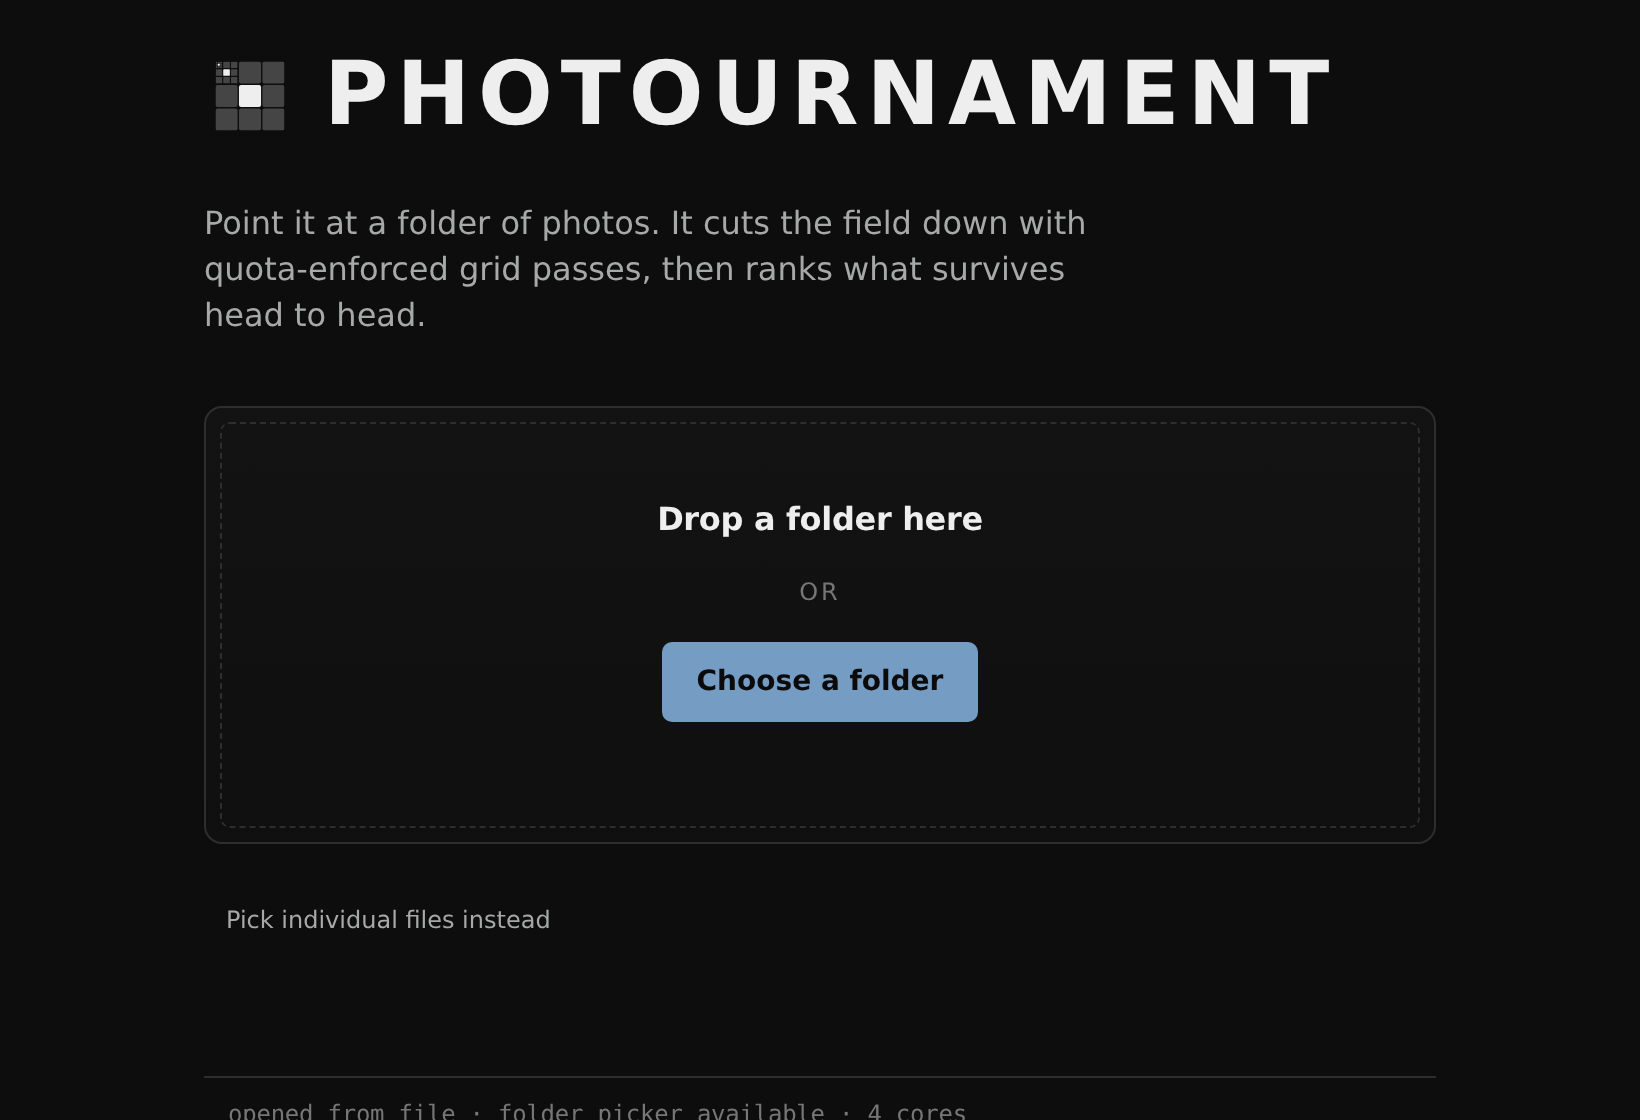
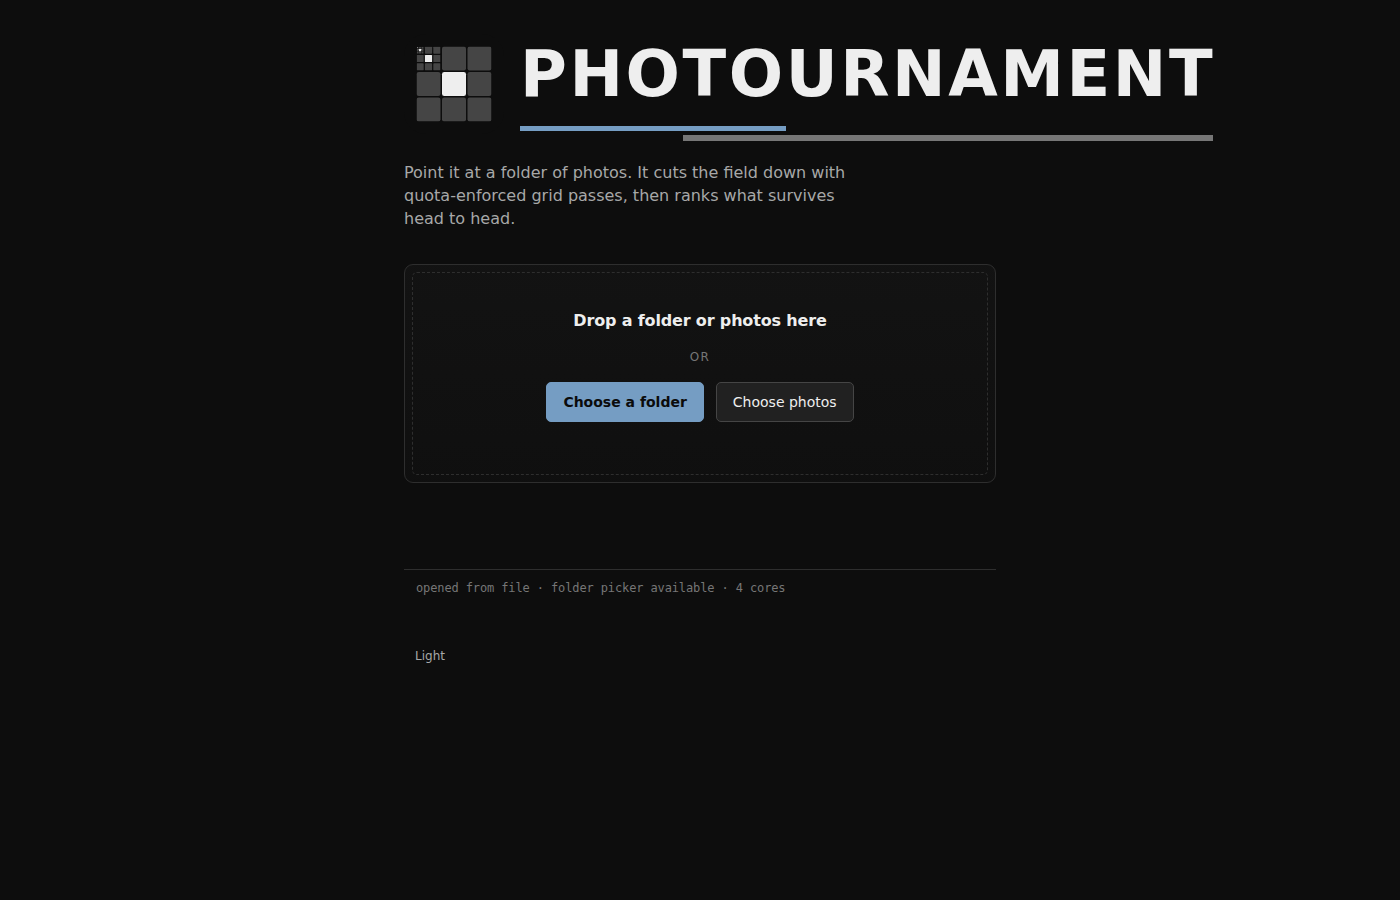
Lockup mark at the approved ratio; the original throbber returns
The entry mark was sized to the wordmark's cap height, but the wordmark
reads as its whole block — caps plus both rails — so the mark looked
like an undersized afterthought. It now matches the block at the ratio
the topbar pairing was approved at by eye (1.23x the visible block:
100px beside the 64px display cut, 63px at the mobile 40px cut).

The ingest throbber rolls back to the original plain full-slot 3x3 by
request: while ingest runs the slot shows only the walking nine-cell
grid — no plate, no recursion — and when the work ends the cells fade
out and the recursive identity resolves back in with its settle, so the
animation ending and the work ending stay one event. Reduced motion
drops the fades and the walk but keeps both states distinguishable.

e2e_mark updated for the restored geometry: the grid must fill the
slot, the identity must fully yield while the cells walk (waited for,
not sampled — the first paint catches the fade mid-flight), and must
return visible and unscaled at rest. Fresh screenshots of the entry,
live, and settled states.

Claude-Session: https://claude.ai/code/session_01KY2WK2pUS3qtCDVgUDekKz

diff --git a/dist/photournament_slim_v1.0.html b/dist/photournament_slim_v1.0.html
@@ -2060,10 +2060,28 @@ kbd {
 /* The entry card paints nothing, so the mark meets the page there. */
 #app .screen-welcome .card { --mark-plate: var(--bg); }
 
-#app .pt-lockup { display: flex; align-items: center; gap: 14px; margin-bottom: 10px; }
+#app .pt-lockup { display: flex; align-items: center; gap: 16px; margin-bottom: 10px; }
 #app .pt-lockup h1 { margin: 0; }
 
-#app .screen-welcome .pt-brandmark { width: 46px; height: 46px; }
+/*
+ * In the lockup the mark matches the WORDMARK'S WHOLE BLOCK — cap height plus
+ * both rails — not the cap height alone. Sized to the caps (46px) it read as
+ * an undersized afterthought beside the double-underlined word.
+ *
+ * The ratio is taken from the topbar pairing, which was approved by eye:
+ * there the mark is 22px against a 14px wordmark whose visible block
+ * (127.5 units per 100 of font size) is 17.85px — mark ≈ 1.23× block. The
+ * display wordmark at 64px has an 81.6px block; 1.23× ≈ 100px. Stated in
+ * pixels per breakpoint because binding a replaced SVG to a sibling's height
+ * with stretch + aspect-ratio resolves against the wrong axis and balloons.
+ */
+#app .pt-lockup .pt-brandmark {
+  width: 100px;
+  height: 100px;
+  flex: none;
+}
+
+/* (The lockup mark is sized by the stretch rule above, not per-screen.) */
 
 /* ==========================================================================
    15. THE WORDMARK
@@ -2361,13 +2379,12 @@ kbd {
    for the length of the ingest and blinked back — two objects pretending to be
    one.
 
-   They are now genuinely one object in one slot. The nine walking cells are an
-   overlay laid out on the SPRITE'S OWN GEOMETRY — 24% cells at 12.5%, 38% and
-   63.5%, the same numbers the symbol uses — so each cell covers the mark's
-   corresponding square exactly. Fading that overlay in flattens the logo into
-   the plain nine-square grid and starts it walking; fading it out lets the
-   recursion bloom back through. Nothing moves, nothing resizes, and at every
-   frame of the transition the thing on screen is still the mark.
+   One slot, two layers that trade places. While ingest runs the slot shows
+   the PLAIN NINE-CELL cut of the logo — a full-bleed 3x3 grid, no plate, no
+   recursion, one cell walking — which is the original throbber, kept by
+   request. When the work ends the cells fade out and the recursive identity
+   fades in with a small settle, so the animation ending and the work ending
+   are still the same event.
 
    The cells borrow the mark's own two colours, so the throbber IS the basic
    nine-cell version of the logo rather than a differently-coloured spinner.
@@ -2385,6 +2402,9 @@ kbd {
 #app .pt-markcells {
   position: absolute;
   inset: 0;
+  display: grid;
+  grid-template-columns: repeat(3, 1fr);
+  gap: 3px;
   opacity: 0;
   /* Slower out than in: the logo resolving is the payoff, and it should not be
      over before the eye has arrived. */
@@ -2396,23 +2416,17 @@ kbd {
   transition: opacity 520ms ease-in;
 }
 
+/* While the cells walk, the throbber IS the whole picture — the plain
+   nine-cell cut of the logo, no plate, no recursion. The identity returns
+   when the work ends. */
+#app .pt-markslot .pt-brandmark { transition: opacity 260ms ease-out; }
+#app .pt-markslot[data-state="live"] .pt-brandmark { opacity: 0; }
+
 #app .pt-markcells i {
-  position: absolute;
-  width: 24%;
-  height: 24%;
-  /* rx 3 in the symbol's 100-unit space, scaled by the 0.75 plate inset, as a
-     fraction of the cell: 2.25 / 24. */
-  border-radius: 9.4%;
+  border-radius: 2px;
   background: var(--line-2);
   animation: pt-markcell 3.6s steps(1, end) infinite;
 }
-#app .pt-markcells i:nth-child(3n+1) { left: 12.5%; }
-#app .pt-markcells i:nth-child(3n+2) { left: 38%; }
-#app .pt-markcells i:nth-child(3n+3) { left: 63.5%; }
-#app .pt-markcells i:nth-child(-n+3) { top: 12.5%; }
-#app .pt-markcells i:nth-child(n+4):nth-child(-n+6) { top: 38%; }
-#app .pt-markcells i:nth-child(n+7) { top: 63.5%; }
-
 #app .pt-markcells i:nth-child(1) { animation-delay: 0.0s; }
 #app .pt-markcells i:nth-child(2) { animation-delay: 0.4s; }
 #app .pt-markcells i:nth-child(3) { animation-delay: 0.8s; }
@@ -2421,8 +2435,8 @@ kbd {
 #app .pt-markcells i:nth-child(8) { animation-delay: 2.0s; }
 #app .pt-markcells i:nth-child(7) { animation-delay: 2.4s; }
 #app .pt-markcells i:nth-child(4) { animation-delay: 2.8s; }
-/* The centre goes last, so the walk lands on the one cell the mark itself keeps
-   lit — the highlight arrives home just as the overlay starts to clear. */
+/* The centre goes last, so the walk lands on the one cell the mark itself
+   keeps lit — the highlight arrives home just as the logo returns. */
 #app .pt-markcells i:nth-child(5) { animation-delay: 3.2s; }
 
 @keyframes pt-markcell {
@@ -2448,7 +2462,8 @@ kbd {
  */
 @media (prefers-reduced-motion: reduce) {
   #app .pt-markcells,
-  #app .pt-markslot[data-state="rest"] .pt-markcells { transition: none; }
+  #app .pt-markslot[data-state="rest"] .pt-markcells,
+  #app .pt-markslot .pt-brandmark { transition: none; }
   #app .pt-markcells i { animation: none; }
   #app .pt-markslot[data-state="rest"] .pt-brandmark { animation: none; }
 }
@@ -2456,8 +2471,15 @@ kbd {
 #app .topbar-left { gap: 9px; }
 
 @media (max-width: 720px) {
-  /* Must out-rank the desktop sizes above, which carry extra selectors. */
-  #app .screen-welcome .pt-brandmark { width: 38px; height: 38px; }
+  /* Same 1.23x ratio against the 40px wordmark's 51px block.  * v2.1b (2026-07-29): Two lockup calls from a real run. The entry mark now
+ *   matches the wordmark's whole visible block at the eye-approved topbar
+ *   ratio (1.23x -> 100px desktop, 63px mobile) instead of the cap height
+ *   alone, where it read as an undersized afterthought. And the ingest
+ *   throbber rolled back to the original plain full-slot 3x3 by request —
+ *   the identity yields while the cells walk and still resolves back, with
+ *   its settle, when the work ends.
+*/
+  #app .pt-lockup .pt-brandmark { width: 63px; height: 63px; }
   #app .pt-brandmark-bar { width: 19px; height: 19px; }
   #app .pt-markslot { width: 38px; height: 38px; }
   #app .pt-markslot .pt-brandmark { width: 100%; height: 100%; }

diff --git a/dist/photournament_v1.0.html b/dist/photournament_v1.0.html
@@ -2060,10 +2060,28 @@ kbd {
 /* The entry card paints nothing, so the mark meets the page there. */
 #app .screen-welcome .card { --mark-plate: var(--bg); }
 
-#app .pt-lockup { display: flex; align-items: center; gap: 14px; margin-bottom: 10px; }
+#app .pt-lockup { display: flex; align-items: center; gap: 16px; margin-bottom: 10px; }
 #app .pt-lockup h1 { margin: 0; }
 
-#app .screen-welcome .pt-brandmark { width: 46px; height: 46px; }
+/*
+ * In the lockup the mark matches the WORDMARK'S WHOLE BLOCK — cap height plus
+ * both rails — not the cap height alone. Sized to the caps (46px) it read as
+ * an undersized afterthought beside the double-underlined word.
+ *
+ * The ratio is taken from the topbar pairing, which was approved by eye:
+ * there the mark is 22px against a 14px wordmark whose visible block
+ * (127.5 units per 100 of font size) is 17.85px — mark ≈ 1.23× block. The
+ * display wordmark at 64px has an 81.6px block; 1.23× ≈ 100px. Stated in
+ * pixels per breakpoint because binding a replaced SVG to a sibling's height
+ * with stretch + aspect-ratio resolves against the wrong axis and balloons.
+ */
+#app .pt-lockup .pt-brandmark {
+  width: 100px;
+  height: 100px;
+  flex: none;
+}
+
+/* (The lockup mark is sized by the stretch rule above, not per-screen.) */
 
 /* ==========================================================================
    15. THE WORDMARK
@@ -2361,13 +2379,12 @@ kbd {
    for the length of the ingest and blinked back — two objects pretending to be
    one.
 
-   They are now genuinely one object in one slot. The nine walking cells are an
-   overlay laid out on the SPRITE'S OWN GEOMETRY — 24% cells at 12.5%, 38% and
-   63.5%, the same numbers the symbol uses — so each cell covers the mark's
-   corresponding square exactly. Fading that overlay in flattens the logo into
-   the plain nine-square grid and starts it walking; fading it out lets the
-   recursion bloom back through. Nothing moves, nothing resizes, and at every
-   frame of the transition the thing on screen is still the mark.
+   One slot, two layers that trade places. While ingest runs the slot shows
+   the PLAIN NINE-CELL cut of the logo — a full-bleed 3x3 grid, no plate, no
+   recursion, one cell walking — which is the original throbber, kept by
+   request. When the work ends the cells fade out and the recursive identity
+   fades in with a small settle, so the animation ending and the work ending
+   are still the same event.
 
    The cells borrow the mark's own two colours, so the throbber IS the basic
    nine-cell version of the logo rather than a differently-coloured spinner.
@@ -2385,6 +2402,9 @@ kbd {
 #app .pt-markcells {
   position: absolute;
   inset: 0;
+  display: grid;
+  grid-template-columns: repeat(3, 1fr);
+  gap: 3px;
   opacity: 0;
   /* Slower out than in: the logo resolving is the payoff, and it should not be
      over before the eye has arrived. */
@@ -2396,23 +2416,17 @@ kbd {
   transition: opacity 520ms ease-in;
 }
 
+/* While the cells walk, the throbber IS the whole picture — the plain
+   nine-cell cut of the logo, no plate, no recursion. The identity returns
+   when the work ends. */
+#app .pt-markslot .pt-brandmark { transition: opacity 260ms ease-out; }
+#app .pt-markslot[data-state="live"] .pt-brandmark { opacity: 0; }
+
 #app .pt-markcells i {
-  position: absolute;
-  width: 24%;
-  height: 24%;
-  /* rx 3 in the symbol's 100-unit space, scaled by the 0.75 plate inset, as a
-     fraction of the cell: 2.25 / 24. */
-  border-radius: 9.4%;
+  border-radius: 2px;
   background: var(--line-2);
   animation: pt-markcell 3.6s steps(1, end) infinite;
 }
-#app .pt-markcells i:nth-child(3n+1) { left: 12.5%; }
-#app .pt-markcells i:nth-child(3n+2) { left: 38%; }
-#app .pt-markcells i:nth-child(3n+3) { left: 63.5%; }
-#app .pt-markcells i:nth-child(-n+3) { top: 12.5%; }
-#app .pt-markcells i:nth-child(n+4):nth-child(-n+6) { top: 38%; }
-#app .pt-markcells i:nth-child(n+7) { top: 63.5%; }
-
 #app .pt-markcells i:nth-child(1) { animation-delay: 0.0s; }
 #app .pt-markcells i:nth-child(2) { animation-delay: 0.4s; }
 #app .pt-markcells i:nth-child(3) { animation-delay: 0.8s; }
@@ -2421,8 +2435,8 @@ kbd {
 #app .pt-markcells i:nth-child(8) { animation-delay: 2.0s; }
 #app .pt-markcells i:nth-child(7) { animation-delay: 2.4s; }
 #app .pt-markcells i:nth-child(4) { animation-delay: 2.8s; }
-/* The centre goes last, so the walk lands on the one cell the mark itself keeps
-   lit — the highlight arrives home just as the overlay starts to clear. */
+/* The centre goes last, so the walk lands on the one cell the mark itself
+   keeps lit — the highlight arrives home just as the logo returns. */
 #app .pt-markcells i:nth-child(5) { animation-delay: 3.2s; }
 
 @keyframes pt-markcell {
@@ -2448,7 +2462,8 @@ kbd {
  */
 @media (prefers-reduced-motion: reduce) {
   #app .pt-markcells,
-  #app .pt-markslot[data-state="rest"] .pt-markcells { transition: none; }
+  #app .pt-markslot[data-state="rest"] .pt-markcells,
+  #app .pt-markslot .pt-brandmark { transition: none; }
   #app .pt-markcells i { animation: none; }
   #app .pt-markslot[data-state="rest"] .pt-brandmark { animation: none; }
 }
@@ -2456,8 +2471,15 @@ kbd {
 #app .topbar-left { gap: 9px; }
 
 @media (max-width: 720px) {
-  /* Must out-rank the desktop sizes above, which carry extra selectors. */
-  #app .screen-welcome .pt-brandmark { width: 38px; height: 38px; }
+  /* Same 1.23x ratio against the 40px wordmark's 51px block.  * v2.1b (2026-07-29): Two lockup calls from a real run. The entry mark now
+ *   matches the wordmark's whole visible block at the eye-approved topbar
+ *   ratio (1.23x -> 100px desktop, 63px mobile) instead of the cap height
+ *   alone, where it read as an undersized afterthought. And the ingest
+ *   throbber rolled back to the original plain full-slot 3x3 by request —
+ *   the identity yields while the cells walk and still resolves back, with
+ *   its settle, when the work ends.
+*/
+  #app .pt-lockup .pt-brandmark { width: 63px; height: 63px; }
   #app .pt-brandmark-bar { width: 19px; height: 19px; }
   #app .pt-markslot { width: 38px; height: 38px; }
   #app .pt-markslot .pt-brandmark { width: 100%; height: 100%; }

diff --git a/src/css/photournament_ui_v2.1.css b/src/css/photournament_ui_v2.1.css
@@ -2004,10 +2004,28 @@ kbd {
 /* The entry card paints nothing, so the mark meets the page there. */
 #app .screen-welcome .card { --mark-plate: var(--bg); }
 
-#app .pt-lockup { display: flex; align-items: center; gap: 14px; margin-bottom: 10px; }
+#app .pt-lockup { display: flex; align-items: center; gap: 16px; margin-bottom: 10px; }
 #app .pt-lockup h1 { margin: 0; }
 
-#app .screen-welcome .pt-brandmark { width: 46px; height: 46px; }
+/*
+ * In the lockup the mark matches the WORDMARK'S WHOLE BLOCK — cap height plus
+ * both rails — not the cap height alone. Sized to the caps (46px) it read as
+ * an undersized afterthought beside the double-underlined word.
+ *
+ * The ratio is taken from the topbar pairing, which was approved by eye:
+ * there the mark is 22px against a 14px wordmark whose visible block
+ * (127.5 units per 100 of font size) is 17.85px — mark ≈ 1.23× block. The
+ * display wordmark at 64px has an 81.6px block; 1.23× ≈ 100px. Stated in
+ * pixels per breakpoint because binding a replaced SVG to a sibling's height
+ * with stretch + aspect-ratio resolves against the wrong axis and balloons.
+ */
+#app .pt-lockup .pt-brandmark {
+  width: 100px;
+  height: 100px;
+  flex: none;
+}
+
+/* (The lockup mark is sized by the stretch rule above, not per-screen.) */
 
 /* ==========================================================================
    15. THE WORDMARK
@@ -2305,13 +2323,12 @@ kbd {
    for the length of the ingest and blinked back — two objects pretending to be
    one.
 
-   They are now genuinely one object in one slot. The nine walking cells are an
-   overlay laid out on the SPRITE'S OWN GEOMETRY — 24% cells at 12.5%, 38% and
-   63.5%, the same numbers the symbol uses — so each cell covers the mark's
-   corresponding square exactly. Fading that overlay in flattens the logo into
-   the plain nine-square grid and starts it walking; fading it out lets the
-   recursion bloom back through. Nothing moves, nothing resizes, and at every
-   frame of the transition the thing on screen is still the mark.
+   One slot, two layers that trade places. While ingest runs the slot shows
+   the PLAIN NINE-CELL cut of the logo — a full-bleed 3x3 grid, no plate, no
+   recursion, one cell walking — which is the original throbber, kept by
+   request. When the work ends the cells fade out and the recursive identity
+   fades in with a small settle, so the animation ending and the work ending
+   are still the same event.
 
    The cells borrow the mark's own two colours, so the throbber IS the basic
    nine-cell version of the logo rather than a differently-coloured spinner.
@@ -2329,6 +2346,9 @@ kbd {
 #app .pt-markcells {
   position: absolute;
   inset: 0;
+  display: grid;
+  grid-template-columns: repeat(3, 1fr);
+  gap: 3px;
   opacity: 0;
   /* Slower out than in: the logo resolving is the payoff, and it should not be
      over before the eye has arrived. */
@@ -2340,23 +2360,17 @@ kbd {
   transition: opacity 520ms ease-in;
 }
 
+/* While the cells walk, the throbber IS the whole picture — the plain
+   nine-cell cut of the logo, no plate, no recursion. The identity returns
+   when the work ends. */
+#app .pt-markslot .pt-brandmark { transition: opacity 260ms ease-out; }
+#app .pt-markslot[data-state="live"] .pt-brandmark { opacity: 0; }
+
 #app .pt-markcells i {
-  position: absolute;
-  width: 24%;
-  height: 24%;
-  /* rx 3 in the symbol's 100-unit space, scaled by the 0.75 plate inset, as a
-     fraction of the cell: 2.25 / 24. */
-  border-radius: 9.4%;
+  border-radius: 2px;
   background: var(--line-2);
   animation: pt-markcell 3.6s steps(1, end) infinite;
 }
-#app .pt-markcells i:nth-child(3n+1) { left: 12.5%; }
-#app .pt-markcells i:nth-child(3n+2) { left: 38%; }
-#app .pt-markcells i:nth-child(3n+3) { left: 63.5%; }
-#app .pt-markcells i:nth-child(-n+3) { top: 12.5%; }
-#app .pt-markcells i:nth-child(n+4):nth-child(-n+6) { top: 38%; }
-#app .pt-markcells i:nth-child(n+7) { top: 63.5%; }
-
 #app .pt-markcells i:nth-child(1) { animation-delay: 0.0s; }
 #app .pt-markcells i:nth-child(2) { animation-delay: 0.4s; }
 #app .pt-markcells i:nth-child(3) { animation-delay: 0.8s; }
@@ -2365,8 +2379,8 @@ kbd {
 #app .pt-markcells i:nth-child(8) { animation-delay: 2.0s; }
 #app .pt-markcells i:nth-child(7) { animation-delay: 2.4s; }
 #app .pt-markcells i:nth-child(4) { animation-delay: 2.8s; }
-/* The centre goes last, so the walk lands on the one cell the mark itself keeps
-   lit — the highlight arrives home just as the overlay starts to clear. */
+/* The centre goes last, so the walk lands on the one cell the mark itself
+   keeps lit — the highlight arrives home just as the logo returns. */
 #app .pt-markcells i:nth-child(5) { animation-delay: 3.2s; }
 
 @keyframes pt-markcell {
@@ -2392,7 +2406,8 @@ kbd {
  */
 @media (prefers-reduced-motion: reduce) {
   #app .pt-markcells,
-  #app .pt-markslot[data-state="rest"] .pt-markcells { transition: none; }
+  #app .pt-markslot[data-state="rest"] .pt-markcells,
+  #app .pt-markslot .pt-brandmark { transition: none; }
   #app .pt-markcells i { animation: none; }
   #app .pt-markslot[data-state="rest"] .pt-brandmark { animation: none; }
 }
@@ -2400,8 +2415,15 @@ kbd {
 #app .topbar-left { gap: 9px; }
 
 @media (max-width: 720px) {
-  /* Must out-rank the desktop sizes above, which carry extra selectors. */
-  #app .screen-welcome .pt-brandmark { width: 38px; height: 38px; }
+  /* Same 1.23x ratio against the 40px wordmark's 51px block.  * v2.1b (2026-07-29): Two lockup calls from a real run. The entry mark now
+ *   matches the wordmark's whole visible block at the eye-approved topbar
+ *   ratio (1.23x -> 100px desktop, 63px mobile) instead of the cap height
+ *   alone, where it read as an undersized afterthought. And the ingest
+ *   throbber rolled back to the original plain full-slot 3x3 by request —
+ *   the identity yields while the cells walk and still resolves back, with
+ *   its settle, when the work ends.
+*/
+  #app .pt-lockup .pt-brandmark { width: 63px; height: 63px; }
   #app .pt-brandmark-bar { width: 19px; height: 19px; }
   #app .pt-markslot { width: 38px; height: 38px; }
   #app .pt-markslot .pt-brandmark { width: 100%; height: 100%; }
